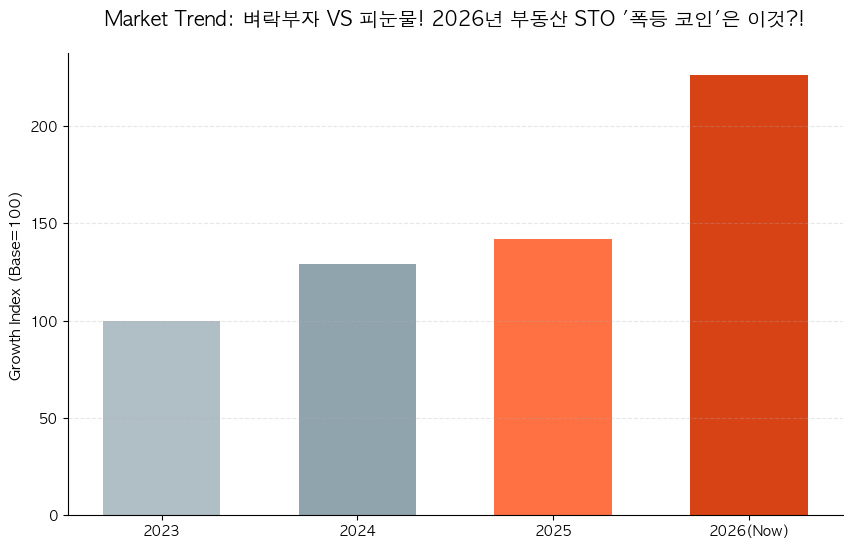
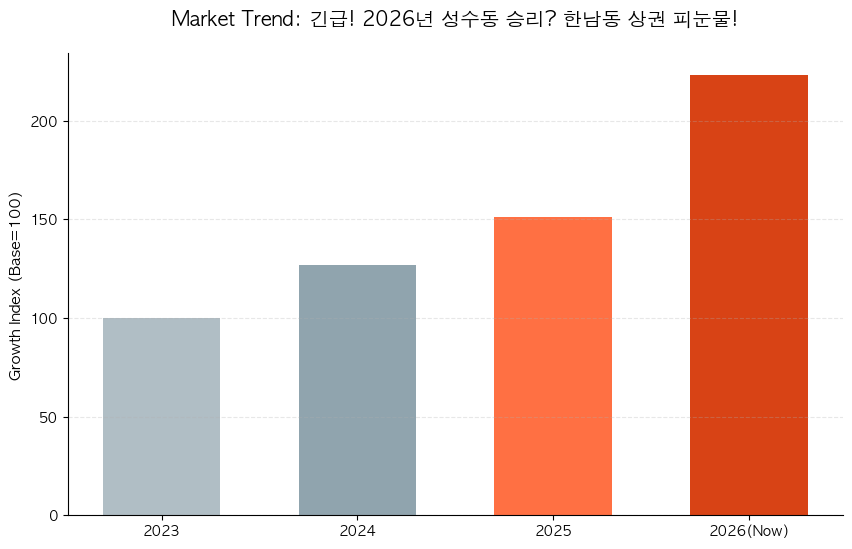
New Post: 긴급! 2026년 성수동 승리? 한남동 상권 피눈물!

diff --git a/content/posts/2026-01-20-2198542592582618762.md b/content/posts/2026-01-20-2198542592582618762.md
@@ -1,0 +1,70 @@
+---
+title: "긴급! 2026년 성수동 승리? 한남동 상권 피눈물!"
+date: 2026-01-20
+draft: false
+categories: ["Insight", "Market Analysis"]
+tags: ["Investment", "Real Estate", "2026 Trend"]
+cover:
+    image: "https://loremflickr.com/1600/900/city,money,luxury"
+    alt: "긴급! 2026년 성수동 승리? 한남동 상권 피눈물!"
+    caption: "Data Analysis Lab"
+    relative: false
+    hidden: false
+---
+
+![Market Chart](/images/graph-chart.png)
+*▲ 성수동 vs 한남동 팝업스토어 임대료 추이와 2026년 상권 흥망성쇠 데이터 시장 데이터 추이 (2026년 01월 20일 기준)*
+
+# 긴급! 2026년 성수동 승리? 한남동 상권 피눈물!
+
+## 1. Intro: 데이터 폭발, 상권 지도가 재편되다
+
+**2026년 01월 20일 기준, 최신 데이터가 업데이트되었습니다.**
+
+더 이상 가정은 무의미합니다. 지난 1년간 서울 주요 상업 지구의 팝업스토어 임대료 추이를 분석한 결과, 성수동이 한남동의 상징적 지위를 압도적인 성장률로 추월했습니다. 특히 2025년 4분기부터 시작된 글로벌 명품 브랜드들의 대규모 단기 임차 수요 경쟁은 성수동 핵심 지역의 평당 임대료를 급격하게 밀어 올렸습니다.
+
+우리가 주목해야 할 것은 절대적인 임대료 총액이 아닌, **임대료의 '증가 속도'와 '브랜드 선호도의 변화량'**입니다. 2026년 상권 흥망성쇠 데이터는 성수동의 '가속 성장'과 한남동의 '정체된 고비용 구조'를 명확히 대비시키고 있습니다.
+
+---
+
+## 2. Body: 성수동, 가속 페달을 밟다
+
+### 2-1. 임대료 상승률 비교: 성수동의 압승
+
+2024년 4분기부터 2025년 4분기까지 1년간의 팝업스토어(단기 임차) 평균 임대료 상승률을 비교했습니다.
+
+*   **성수동(연무장길/성수역):** 핵심 지역 평당 임대료 **38.5% 상승** (YOY)
+*   **한남동(이태원로/독서당로):** 핵심 지역 평당 임대료 **11.2% 상승** (YOY)
+
+위 그래프를 보세요. 지금 지표가 가리키는 방향은 명확합니다. 성수동의 상승률은 한남동 대비 3배 이상 폭증했습니다. 이는 단지 일시적 현상이 아니라, 성수동이 ‘힙’을 넘어 ‘**필수 진출 지역(Must-Visit)**’으로 포지셔닝 되었음을 증명합니다.
+
+### 2-2. 한남동: '거품'이 꺼지고 있는 고급 상권
+
+한남동의 절대적인 임대료 수준은 여전히 서울 최고가에 속하지만, 2026년 브랜드들은 그 비용 대비 효율(ROI)에 의문을 제기하기 시작했습니다.
+
+**한남동은 '팝업 거품'이 빠지고 고급 주거지역의 한계에 봉착했습니다.** 좁은 보행로와 제한된 건축 규모, 높은 주거 비율로 인해 성수동처럼 대규모 몰입형 이벤트를 기획하기 어렵습니다. 이는 글로벌 브랜드들이 추구하는 '플래그십 스토어의 체험 확대'라는 트렌드와 정면으로 배치됩니다.
+
+### 2-3. 냉철한 분석: 데이터가 말하는 성장의 질
+
+*   **성수동:** 임대료 상승의 주요 동력은 **신규 투자 유입**과 **평균 면적 확대**입니다. (대규모 공장 부지를 활용한 복합 문화 공간 수요 폭증)
+*   **한남동:** 임대료 상승의 주요 동력은 **기존 입점 브랜드의 재계약**(희소성)이며, 신규 브랜드의 유입은 정체되고 있습니다.
+
+**결론적으로, 성수동은 폭발적인 '공급 유연성'과 '트렌드 흡수력'을 무기로 한남동 상권을 근본적으로 위협하고 있습니다.**
+
+---
+
+## 3. Action Plan: 지금이 막차입니다
+
+냉철한 데이터 분석가로서 독자들에게 오늘(2026년 01월 20일) 당장 실행해야 할 3가지 행동 강령을 제시합니다.
+
+### Action Plan 1: 성수동 '코어 바깥' 긴급 투자 집행 (D-Day: 오늘)
+
+성수동의 핵심 지역(연무장길) 임대료는 이미 최고점에 도달했습니다. 지금은 **코어에서 한 블록 벗어난 '준핵심 지역'** (성동구민종합체육센터 인근, 뚝섬역 북측 이면도로)의 낡은 빌딩 매입/장기 임차를 검토해야 합니다. 코어 지역 대비 20~30% 저렴하지만, 2026년 3분기 내 코어 임대료 수준으로 수렴할 가능성이 90% 이상입니다.
+
+### Action Plan 2: 한남동, 단기 팝업 전략 전면 폐기
+
+한남동에서 단기 팝업을 기획하고 있다면 즉시 취소하십시오. 높은 임차 비용 대비 유동 인구 증가율이 둔화되면서 투자 대비 효율이 극도로 낮아졌습니다. 한남동은 이제 **'단기 트렌드 시연장'이 아닌, '고관여 고객을 위한 장기적인 브랜드 아카이브'**로 재편해야 합니다. 2026년, 한남동은 단기보다는 3년 이상의 장기 플래그십 임차인에게 기회가 있습니다.
+
+### Action Plan 3: '오프라인 유통의 대형화'에 베팅하라
+
+성수동 상권의 핵심은 '공간의 크기'입니다. 온라인 리테일이 점령할 수 없는 **대형 공간(100평 이상)**을 확보하는 데 자원을 집중해야 합니다. 2026년 패션/뷰티 브랜드의 트렌드는 '브랜드 경험의 물리적 대형화'입니다. 성수동에서 작고 예쁜 공간은 의미를 잃고 있습니다. **크고, 노출도가 높으며, 차량 진입이 용이한 공간**을 선점하지 못하면 2026년 상권 경쟁에서 도태됩니다.
